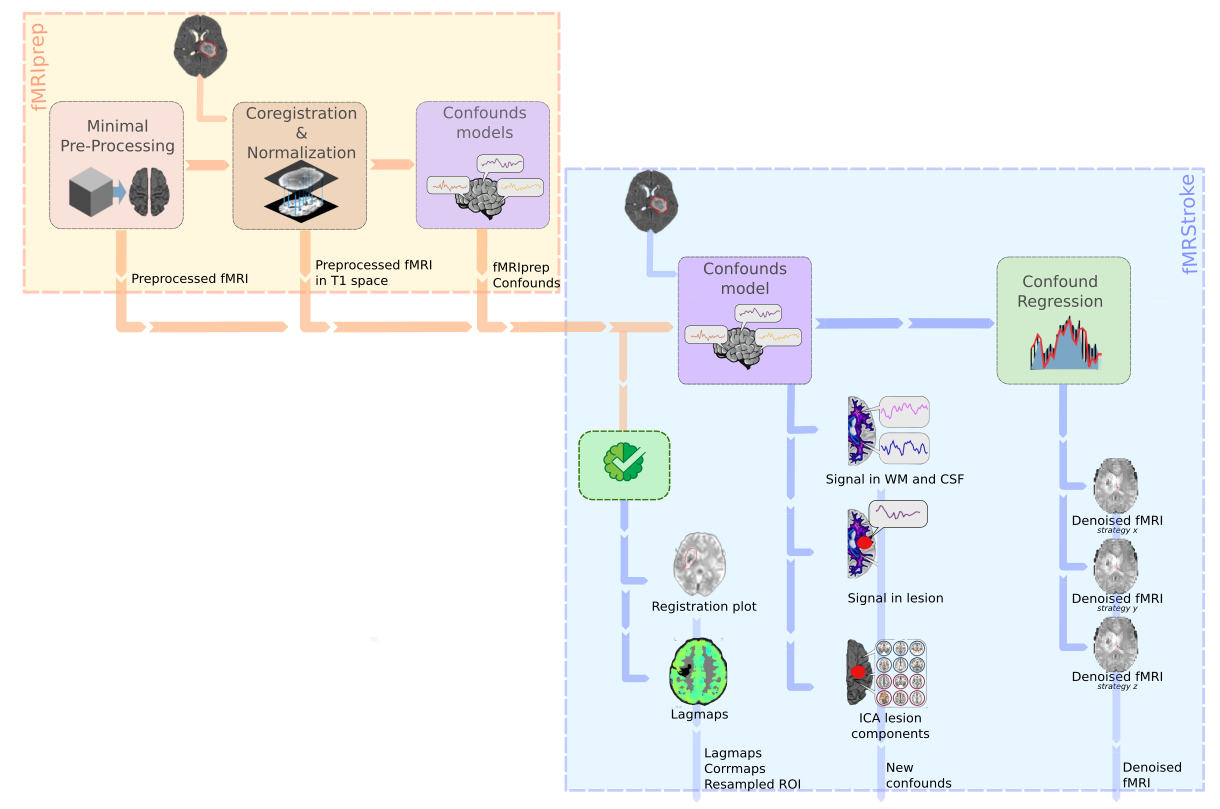
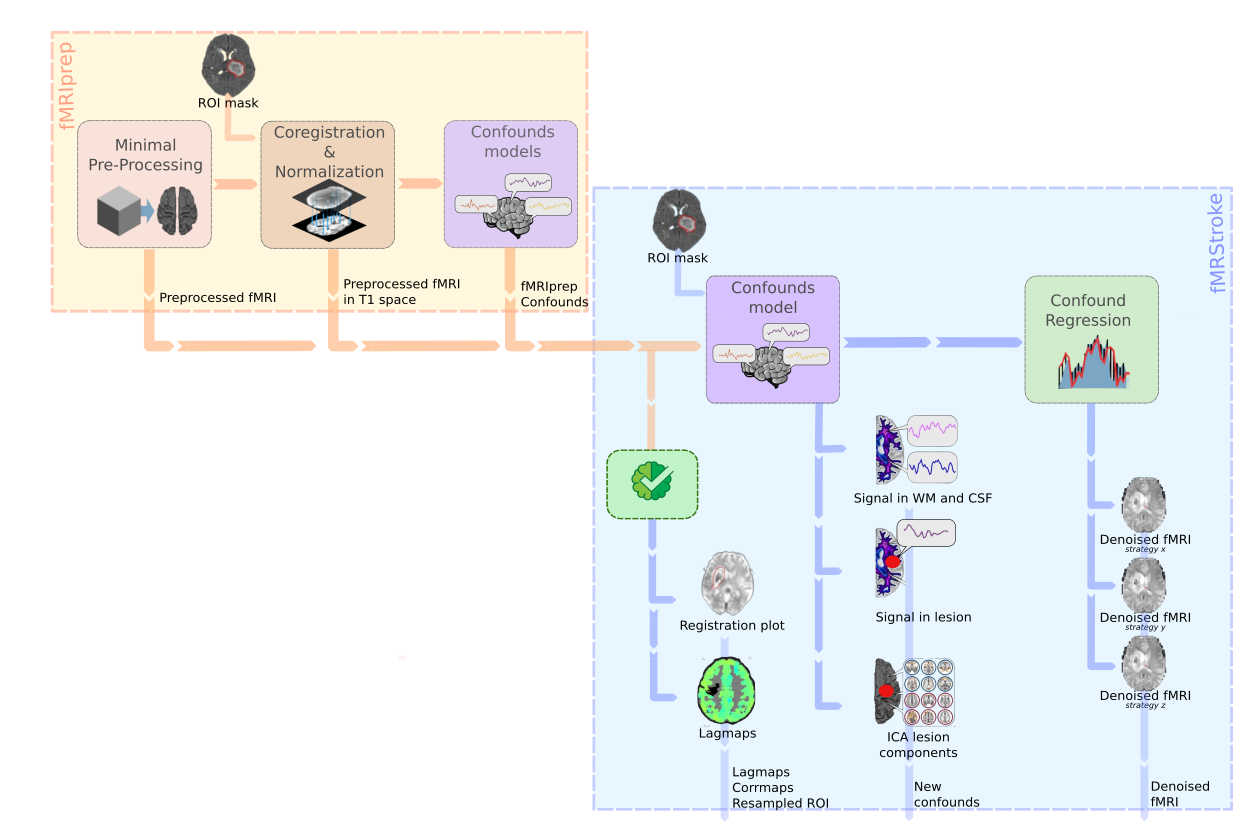
Joss (#6)
* add paper joss

* Paper joss

* Paper joss

* Update paper.md

* Paper joss

* Paper joss

* Update paper.md

* joss v2

* Update paper.md

* Update paper.md

* joss v2

* joss v2

* Update paper.md

* Fix figure

* fix figure

* Add refs

* Update paper.md

* fix typo

* Update Joss paper with G outputs

* Update paper.md

* Fix typos paper

* Update paper.md

* Update paper.md

* paper joss

---------

Changed region(s): [[0.0, 0.0, 0.9967, 0.9889]]

diff --git a/paper/paper.md b/paper/paper.md
@@ -1,0 +1,64 @@
+---
+title: 'fMRIStroke:  A preprocessing pipeline for fMRI Data from Stroke patients'
+tags:
+  - Python
+  - fMRI
+  - preprocessing
+  - stroke
+  - functional connectivity
+authors:
+  - name: Alix Lamouroux
+    orcid: 0009-0008-2046-3703
+    affiliation: "1, 2" 
+  - name: Giulia Lioi
+    orcid: 
+    affiliation: "1" 
+  - name: Julie Coloigner
+    orcid: 
+    affiliation: "2" 
+  - name: Pierre Maurel
+    orcid: 
+    affiliation: "2"
+  - name: Nicolas Farrugia
+    orcid: 
+    affiliation: "1"
+   
+
+affiliations:
+ - name: IMT Atlantique, Lab-STICC UMR CNRS 6285 F-29238, France
+   index: 1
+ - name: Univ Rennes, Inria, CNRS, Inserm
+   index: 2
+date: 20 December 2023
+bibliography: paper.bib
+---
+
+# Summary
+Functional Magnetic Resonance Imaging (fMRI) is a widely used neuroimaging technique for the analysis of neural activity and functional connectivity. However, fMRI signal is inherently noisy and susceptible to various artifacts, compromising the accuracy and reliability of derived analyses. This becomes particularly critical when dealing with stroke patients, given the added complexitiy associated with their neurological condition. Specific preprocessing and denoising are integral steps to identify the nuisance sources and mitigate their effect on fMRI analysis. 
+To address these considerations, we introduce fMRIStroke, a functional magnetic resonance imaging (fMRI) data quality checks and preprocessing pipeline tailored specifically for stroke data. fMRIStroke works as an add-on to typical preprocessing pipeline. Leveraging on a commonly used fMRI preprocessing tool outputs (fMRIprep), fMRIStroke generates new quality check plots, computes additional confounds, and executes confound regression (denoising), providing preprocessed fMRI ready for neural activity or connectivity analysis. 
+
+
+
+# Statement of need
+Stroke, with its complex and varied impact on the brain's vascular supply, often results in damages that extend beyond the immediate lesion site, making functional connectivity analysis a promising tool to understand its immediate impact as well as network reorganizations during recovery. 
+
+However, while the Blood Oxygen Level Dependent (BOLD) signal obtained from fMRI data is typically mixed with non-neuronal sources of variability [@Bianciardi:2009] in healthy subjects it is even more true for stroke patients [@Siegel:2017], compromising the reliability of fMRI analyses and specifically Functional Connectivity (FC) analysis. 
+Recognizing these challenges, it is highly recommended, notably by @Siegel:2017, to incorporate specific quality checks and strategies to address lesion-related confounds when working with stroke fMRI data. 
+
+Existing tools like fMRIprep [@Esteban:2018] have streamlined most of the preprocessing steps; however, they lack specificity for fMRI data from stroke patients. 
+
+To this end, we propose fMRIStroke, a fMRI preprocessing pipeline designed specifically for stroke data that builds on the output derivatives of fMRIprep [@Esteban:2018] when a lesion mask is given. It provides an interface requiring minimal user input while delivering easily interpretable and comprehensive reports. 
+
+Concretely, novel quality checks include a hemodynamic lagmap. fMRIStroke assesses hemodynamic lag using cross-correlation with the global gray matter signal [@Siegel:2016] using the rapidTide  python library [@Rapidtide]. As stroke can introduce altered blood flow patterns a normal hemodynamic response cannot be assumed. [@Siegel:2016] investigated temporal delays (lag) in resting state functional magnetic resonance imaging signals and found that significant hemodynamic lag was observed in 30% of sub-acute stroke patients and approximately 10% of patients at one-year post-stroke. 
+Lags systematically alter measurements of functional connectivity from the affected nodes, and need to be taken into consideration when doing FC analysis [@Siegel:2017].
+
+Additionally, signal in the lesion mask and signals in CSF and WM masks incorporating lesion masks are added to the confounds already computed by fMRIprep along with new ICA-based cofounds inspired by @Yourganov:2018 proposed method. In this paper the authors point out that the lesion introduces a particular artefact into the fMRI data which is not removed by standard preprocessing techniques. To mitigate this effect, they propose an ICA-based noise identification method. Independent components are calculated on the BOLD signal and those that overlap with the lesion (that is unlikely to include signal related to neuronal activity), are identified as potential noise components. Signals extracted from ICA components can be further regressed out from the fMRI data with a denoising procedure.
+
+Finally supplementary outputs include the lesion mask in standardized space and multiple denoised fMRI as there is currently no consensus in the fMRI community on an optimal denoising strategy.
+
+fMRIStroke pipeline is presented in more details in the following figure. 
+
+
+![fMRIStroke pipeline.](https://github.com/alixlam/fmristroke/blob/main/docs/_static/pipeline.png)
+
+# References
